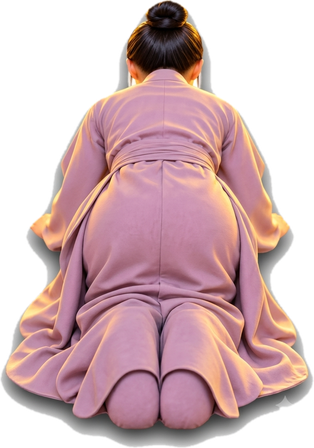
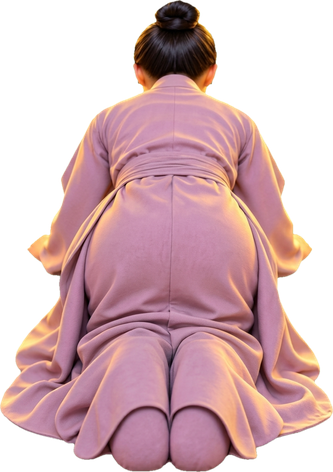
feat: regenerated pink sprites on a green screen, with a script that cuts the green out
cut-green-bg.py finds the background by flood fill from the border, so a vignetted green works; the pink size scale is adjusted.

Changed region(s): [[0.0, 0.0, 1.0, 1.0]]

diff --git a/public/overlay.js b/public/overlay.js
@@ -226,7 +226,7 @@
   const baseOf = (pose) => pose.replace(/up2?$/, '');
   // A cast whose frames all share one scale (its pose images are cut from one drawing size) is drawn at this many
   // design pixels per image pixel, instead of the per-pose heights above.
-  const PIXEL_SCALE = { devotee: 1.2, brown: 0.5, pink: 0.5 }; // brown and pink are cut ~2x larger than devotee (scripts/cut-white-bg.py)
+  const PIXEL_SCALE = { devotee: 1.2, brown: 0.5, pink: 0.55 }; // brown and pink are cut ~2x larger than devotee (scripts/cut-white-bg.py, cut-green-bg.py)
   const TEX = {}; // TEX[outfit][pose]
   const FIGURE_NEAR = 1.0, FIGURE_FAR = 0.62; // size at the bottom / top of the carpet
 

diff --git a/scripts/cut-green-bg.py b/scripts/cut-green-bg.py
@@ -1,0 +1,57 @@
+"""Make the green-screen background of disciple sprites transparent, trim them and shrink them for the overlay.
+Usage: python3 scripts/cut-green-bg.py pink [brown ...]   (outfits to process; files are rewritten in place)
+The background may shade from yellow-green to deep green (generators add a vignette), so it is found by flood fill from the
+image border over every green-looking pixel, not by one exact colour. Sprites that are already transparent are skipped."""
+import os
+import sys
+import numpy as np
+from PIL import Image, ImageDraw, ImageFilter
+
+DIR = os.path.join(os.path.dirname(__file__), '..', 'public', 'assets', 'disciples')
+SHRINK = 0.4  # the sources are ~1200 px tall; the PIXEL_SCALE of brown and pink in overlay.js is set for this shrink
+GREEN_OVER_BLUE = 10  # a background pixel has green above blue by at least this, and green not below red: dark, olive and bright greens
+
+
+def cut(path):
+    src = Image.open(path).convert('RGBA')
+    a = np.asarray(src).astype(np.int16)
+    if a[..., 3].min() < 250:
+        return None  # already has a transparent background
+    r, g, b = a[..., 0], a[..., 1], a[..., 2]
+    greenish = (g - b > GREEN_OVER_BLUE) & (g >= r - 4)
+    mask = Image.fromarray((greenish * 255).astype(np.uint8)).copy()  # copy: an image built from an array cannot be edited in place
+    h, w = greenish.shape
+    border = [(x, 0) for x in range(w)] + [(x, h - 1) for x in range(w)] + [(0, y) for y in range(h)] + [(w - 1, y) for y in range(h)]
+    for pt in border:
+        if mask.getpixel(pt) == 255:
+            ImageDraw.floodfill(mask, pt, 128)  # 128 marks background reached from the border
+    bg = np.asarray(mask) == 128
+    # drop everything that is not joined to the figure (the generator's star watermark, stray specks)
+    fg = Image.fromarray(np.where(bg, 0, 255).astype(np.uint8)).copy()
+    seed = next(((x, y) for y in range(int(h * 0.6), h) for x in (w // 2, w // 2 - 30, w // 2 + 30) if fg.getpixel((x, y)) == 255), None)
+    if seed:
+        ImageDraw.floodfill(fg, seed, 128)
+        bg = np.asarray(fg) != 128
+    bg = bg | ((g - np.maximum(r, b)) > 30)  # clearly green pixels are background even in pockets the border flood cannot reach (between hands and head)
+    alpha = Image.fromarray(np.where(bg, 0, 255).astype(np.uint8))
+    alpha = alpha.filter(ImageFilter.MinFilter(3)).filter(ImageFilter.GaussianBlur(0.9))  # drop the green fringe, soften the edge
+    # despill: wherever green still leaks into the edge pixels, pull it down to the level of red and blue
+    rgb = np.asarray(src.convert('RGB')).astype(np.float32)
+    spill = np.clip(rgb[..., 1] - np.maximum(rgb[..., 0], rgb[..., 2]), 0, None)
+    rgb[..., 1] -= spill * 0.9
+    out = Image.fromarray(np.clip(rgb, 0, 255).astype(np.uint8), 'RGB').convert('RGBA')
+    out.putalpha(alpha)
+    out = out.crop(alpha.point(lambda v: 255 if v > 20 else 0).getbbox())
+    return out.resize((max(1, round(out.width * SHRINK)), max(1, round(out.height * SHRINK))), Image.LANCZOS)
+
+
+for outfit in sys.argv[1:]:
+    for name in sorted(os.listdir(DIR)):
+        if not name.endswith(f'-{outfit}.png'):
+            continue
+        im = cut(os.path.join(DIR, name))
+        if im is None:
+            print(name, 'already transparent')
+            continue
+        im.save(os.path.join(DIR, name))
+        print(name, im.size)
